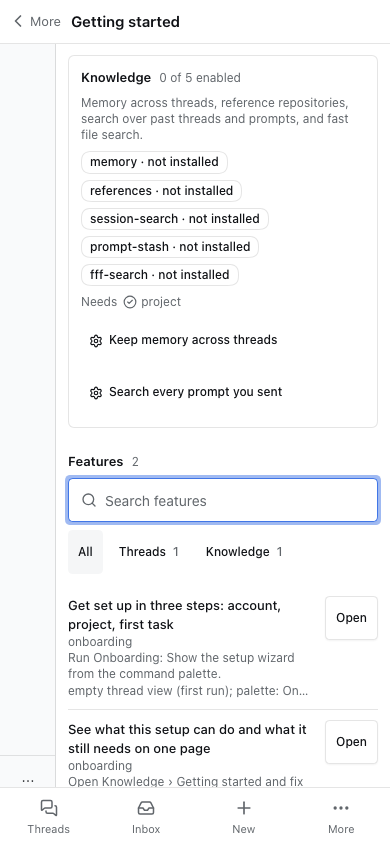
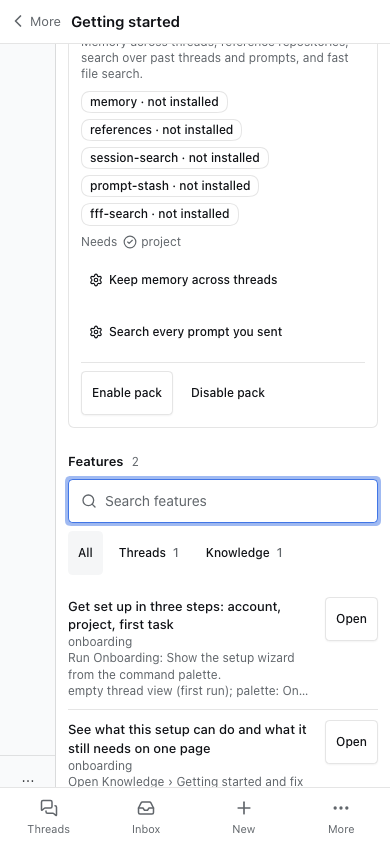
test(onboarding): catalog, journey and screenshots for pack changes
Records the pack-change feature in the catalog (api-dispatch, agent-tool and the
onboarding dshx add span), adds the Gherkin journey that opens Enable pack from
the keyboard at 390 px, checks the preview's install list, restart line, 44 px
controls and the page not shifting, then dismisses it and proves nothing was
applied, restarted or reloaded. Refreshes the Getting started screenshots, which
now show the pack buttons, and adds the preview dialog's.

diff --git a/tooling/dshx/e2e/support/plugin-journeys/onboarding.steps.ts b/tooling/dshx/e2e/support/plugin-journeys/onboarding.steps.ts
@@ -8,6 +8,11 @@ const STARTER_PROMPT = 'Explain how this project is organised and where I should
 const gettingStarted = (page: Page) => page.getByRole('main', { name: 'Getting started', exact: true })
 const wizard = (page: Page) => page.locator('[data-setup-wizard]')
 const paletteDialog = (page: Page) => page.getByRole('dialog', { name: 'Command palette' })
+const packDialog = (page: Page) => page.locator('[data-pack-dialog]')
+const pack = (page: Page, title: string) =>
+  gettingStarted(page)
+    .locator('[data-pack]')
+    .filter({ has: page.getByRole('heading', { name: title, exact: true }) })
 const composer = (page: Page) => page.getByRole('textbox', { name: /commands, @ files or sessions$/u }).first()
 
 const runPaletteCommand = async (page: Page, title: string): Promise<void> => {
@@ -158,3 +163,67 @@ Then('the palette opened Getting started with its eight packs', async ({ page }:
   })
   await finishJourneyAssertions(page)
 })
+
+/** Requests that would change the profile or restart DSH; the preview journey must send none. */
+const writes = new WeakMap<Page, string[]>()
+
+When('Enable pack is pressed from the keyboard on the {string} pack', async ({ page }: { page: Page }, title: string) => {
+  const seen: string[] = []
+  writes.set(page, seen)
+  page.on('request', request => {
+    if (/applyPack|[Rr]estart/u.test(request.url()) || /applyPack|requestRestart/u.test(request.postData() ?? '')) seen.push(request.url())
+  })
+  await page.evaluate(() => sessionStorage.setItem('onboarding-e2e-no-reload', 'kept'))
+  // The open dialog hides the page from the accessibility tree, so its box is read by element, not by role.
+  const pageBox = () => page.locator('main[aria-label="Getting started"]').boundingBox()
+  const before = await pageBox()
+  await pack(page, title)
+    .getByRole('button', { name: `Enable pack: ${title}`, exact: true })
+    .focus()
+  await page.keyboard.press('Enter')
+  await expect(page.getByRole('dialog', { name: `Enable ${title}`, exact: true })).toBeVisible()
+  const after = await pageBox()
+  await recordAssertion(page, 'onboarding-pack-dialog-no-shift', async () => {
+    expect(after?.x).toBe(before?.x)
+    expect(after?.width).toBe(before?.width)
+  })
+})
+
+Then('the pack preview names what would install and the restart it needs, with 44 pixel controls and no page shift', async ({ page }: { page: Page }) => {
+  await recordAssertion(page, 'onboarding-pack-preview', async () => {
+    const dialog = packDialog(page)
+    await expect(dialog.locator('[data-preview-section="install"]')).toBeVisible()
+    await expect(dialog.locator('[data-preview-section="install"]')).toContainText('traces')
+    await expect(dialog.locator('[data-preview-section="restart"]')).toContainText('Restart when idle')
+    await expect(page.getByRole('dialog')).toHaveCount(1)
+    const width = await dialog.evaluate(element => element.getBoundingClientRect().right <= window.innerWidth)
+    expect(width).toBe(true)
+    const heights = await dialog
+      .locator('button, a')
+      .evaluateAll(elements =>
+        elements.filter(element => element instanceof HTMLElement && element.offsetParent !== null).map(element => element.getBoundingClientRect().height),
+      )
+    expect(heights.length).toBeGreaterThan(0)
+    expect(heights.filter(height => height < 44)).toEqual([])
+  })
+  await page.screenshot({ path: test.info().outputPath('pack-change.png'), animations: 'disabled' })
+})
+
+When('the pack preview is dismissed with Escape', async ({ page }: { page: Page }) => {
+  await page.keyboard.press('Escape')
+  await expect(page.getByRole('dialog')).toHaveCount(0)
+})
+
+Then(
+  'the {string} pack is unchanged, its Enable pack button has focus again and nothing was applied or restarted',
+  async ({ page }: { page: Page }, title: string) => {
+    await recordAssertion(page, 'onboarding-pack-cancel-changes-nothing', async () => {
+      await expect(pack(page, title).getByRole('button', { name: `Enable pack: ${title}`, exact: true })).toBeFocused()
+      await expect(pack(page, title).locator('[data-plugin-state="not-installed"]')).toHaveCount(4)
+      expect(writes.get(page) ?? []).toEqual([])
+      expect(await page.evaluate(() => sessionStorage.getItem('onboarding-e2e-no-reload'))).toBe('kept')
+    })
+    await page.setViewportSize({ width: 1280, height: 900 })
+    await finishJourneyAssertions(page)
+  },
+)

diff --git a/plugins/@dshfiles/onboarding/README.md b/plugins/@dshfiles/onboarding/README.md
@@ -6,8 +6,10 @@
 
 ![Getting started at 390 px: stacked packs, 44 px controls, scrolling destination chips](docs/screenshots/getting-started-390.png)
 
+![Enable or disable a plugin pack after an exact preview](docs/screenshots/pack-change.png)
+
 Getting started for anyone adopting dshfiles: the whole setup, one plugin, a pack of plugins or one feature. It never
-blocks the app, changes nothing on its own and makes no model request.
+blocks the app, makes no model request, and changes the profile only when you confirm a pack change.
 
 ## Use
 
@@ -15,10 +17,13 @@ blocks the app, changes nothing on its own and makes no model request.
    view chooser.
    1. **Setup checklist**, read live from the Host on each open: a model provider is set up, a project is added, a
       project is a jj or git repository, the GitHub CLI is signed in. Each open item has its fix: open AI accounts,
-      open Settings › Projects, or copy `gh auth login`.
+      open Settings › Projects, or copy `gh auth login`. The AI account item counts AI accounts' connected accounts
+      (on, signed in, configured) when that plugin is installed, and says it fell back to model provider routes when it
+      is not; it reads the saved accounts only, never a provider or quota.
    2. **Packs**: eight named plugin sets (Core, Versioning workflow, GitHub & review, Backlog & planning, Accounts &
       cost, Agents & orchestration, Observe & perf, Knowledge) with each plugin **enabled**, **disabled** or **not
       installed**, the checklist items each pack needs, and a button per key setting. A plugin may sit in several packs.
+      Every pack but Core has **Enable pack** and **Disable pack** (see _Pack changes_).
    3. **Features**: every feature the owned catalogs declare, curated first, grouped by destination chips. Type to
       search every feature (each word must match); `/` focuses the search, Escape clears it. **Open** appears only when
       the feature's page, command or Settings place is registered in this profile.
@@ -29,6 +34,27 @@ blocks the app, changes nothing on its own and makes no model request.
       no composer is on screen) and never sends it.
    3. Skip, Back and Next on every step; Escape skips. The outcome is kept per browser. **Onboarding: Show the setup
       wizard** or **Start setup** on the page replays it.
+
+## Pack changes
+
+1. **Preview.** Enable pack or Disable pack opens one dialog naming the packages to install, the rows to enable or
+   disable, the rows already fine, the plugins another fully enabled pack keeps on, rows that cannot change here, the
+   pack's prerequisites and whether a restart follows. Nothing changes before **Enable pack** / **Disable pack** in the
+   dialog; Cancel or Escape changes nothing; a satisfied pack says **Up to date** and offers only Close.
+2. **Apply.** One plugin per Host call, with progress and **Stop after this plugin** (the running plugin finishes so its
+   result is known; the rest read _not started_).
+   1. Existing rows switch through the plugin manager. Its verdict is shown as given: applied to the running DSH,
+      waits for a restart (with its reason, e.g. `no-hmr`), or overridden by a higher profile layer.
+   2. Missing owned bundles install with `dshx add @dshfiles/<plugin> --profile <active profile> --json` from the
+      dshfiles checkout this profile links Getting started from (read from the plugin manager's bundle record, never
+      assumed). A profile without that checkout, or with an unbuilt dshx CLI, gets the exact command to copy and
+      [the install docs](../../../docs/profile-installs.md) instead.
+3. **Verdict.** Done, Saved (waits for a restart), Partly done, Not changed, Install by hand or Cancelled, with what is
+   installed now and the next action. A partial run never reads as success and nothing is rolled back.
+4. **Restart.** Nothing restarts DSH. Installs load at the next start: **Restart when idle** in the sidebar when DSH runs
+   under the managed launcher, otherwise your own launcher.
+5. **Reverse.** Disable pack switches the pack's running rows off (never Core's, never a row another fully enabled pack
+   needs) and uninstalls nothing; Enable pack switches them back.
 
 ## Settings (`dshfiles-onboarding`)
 
@@ -42,11 +68,15 @@ All apply live; none needs a restart.
 | `packs`       | `true`  | Show the packs section.                                                                               |
 | `curatedOnly` | `true`  | List only curated features until you search.                                                          |
 
-## Agent tool
+## Agent tools
 
-`onboarding_overview` (read-only) returns the same checklist, packs and feature rows the page shows, from the same API
-method (`onboarding/overview`). It takes `query`, `destination`, `curatedOnly` and `limit`. Opening a page or replaying
-the wizard is presentation and has no tool.
+1. `onboarding_overview` (read-only) returns the same checklist, packs and feature rows the page shows, from the same
+   API method (`onboarding/overview`). It takes `query`, `destination`, `curatedOnly` and `limit`, and
+   `preview: { pack, action }` adds the same pack preview the dialog shows.
+2. `onboarding_pack_apply` (`onboarding/applyPack`) applies one pack change and returns the preview, each plugin's result
+   and the verdict the dialog shows. It runs only when the user asked: `confirm: true` has no default, so a bare request
+   changes nothing. `plugins` narrows it to some plugins of the plan.
+3. Opening a page or replaying the wizard is presentation and has no tool.
 
 ## Data
 
@@ -64,10 +94,14 @@ the wizard is presentation and has no tool.
 
 1. The model-provider item counts registered provider routes; whether each holds a working credential is shown in AI
    accounts, not here.
-2. Plugin states come from the Host's plugin manager; a Host without one reports them as unknown.
-3. P2 of [the plan](../../../plans/onboarding/README.md) adds Enable / Disable pack and Show me where.
+2. Plugin states come from the Host's plugin manager; a Host without one reports them as unknown and hides the pack
+   buttons.
+3. Whether DSH runs under the managed launcher is not read here, so the restart guidance names both ways.
+4. Show me where is the rest of P2 in [the plan](../../../plans/onboarding/README.md).
 
 ## Telemetry
 
-`onboarding/overview` gets the automatic `api-dispatch` span and `onboarding_overview` the `agent-tool` span. The GitHub
-check opens one `onboarding gh auth` span per run with its status and never reads gh's output.
+`onboarding/overview` and `onboarding/applyPack` get the automatic `api-dispatch` spans, and their tools the `agent-tool`
+span. The GitHub check opens one `onboarding gh auth` span per run with its status and never reads gh's output. A pack
+preview opens `onboarding pack preview`, an apply `onboarding pack apply`, and each install one `onboarding dshx add`
+span with the plugin and exit code.
